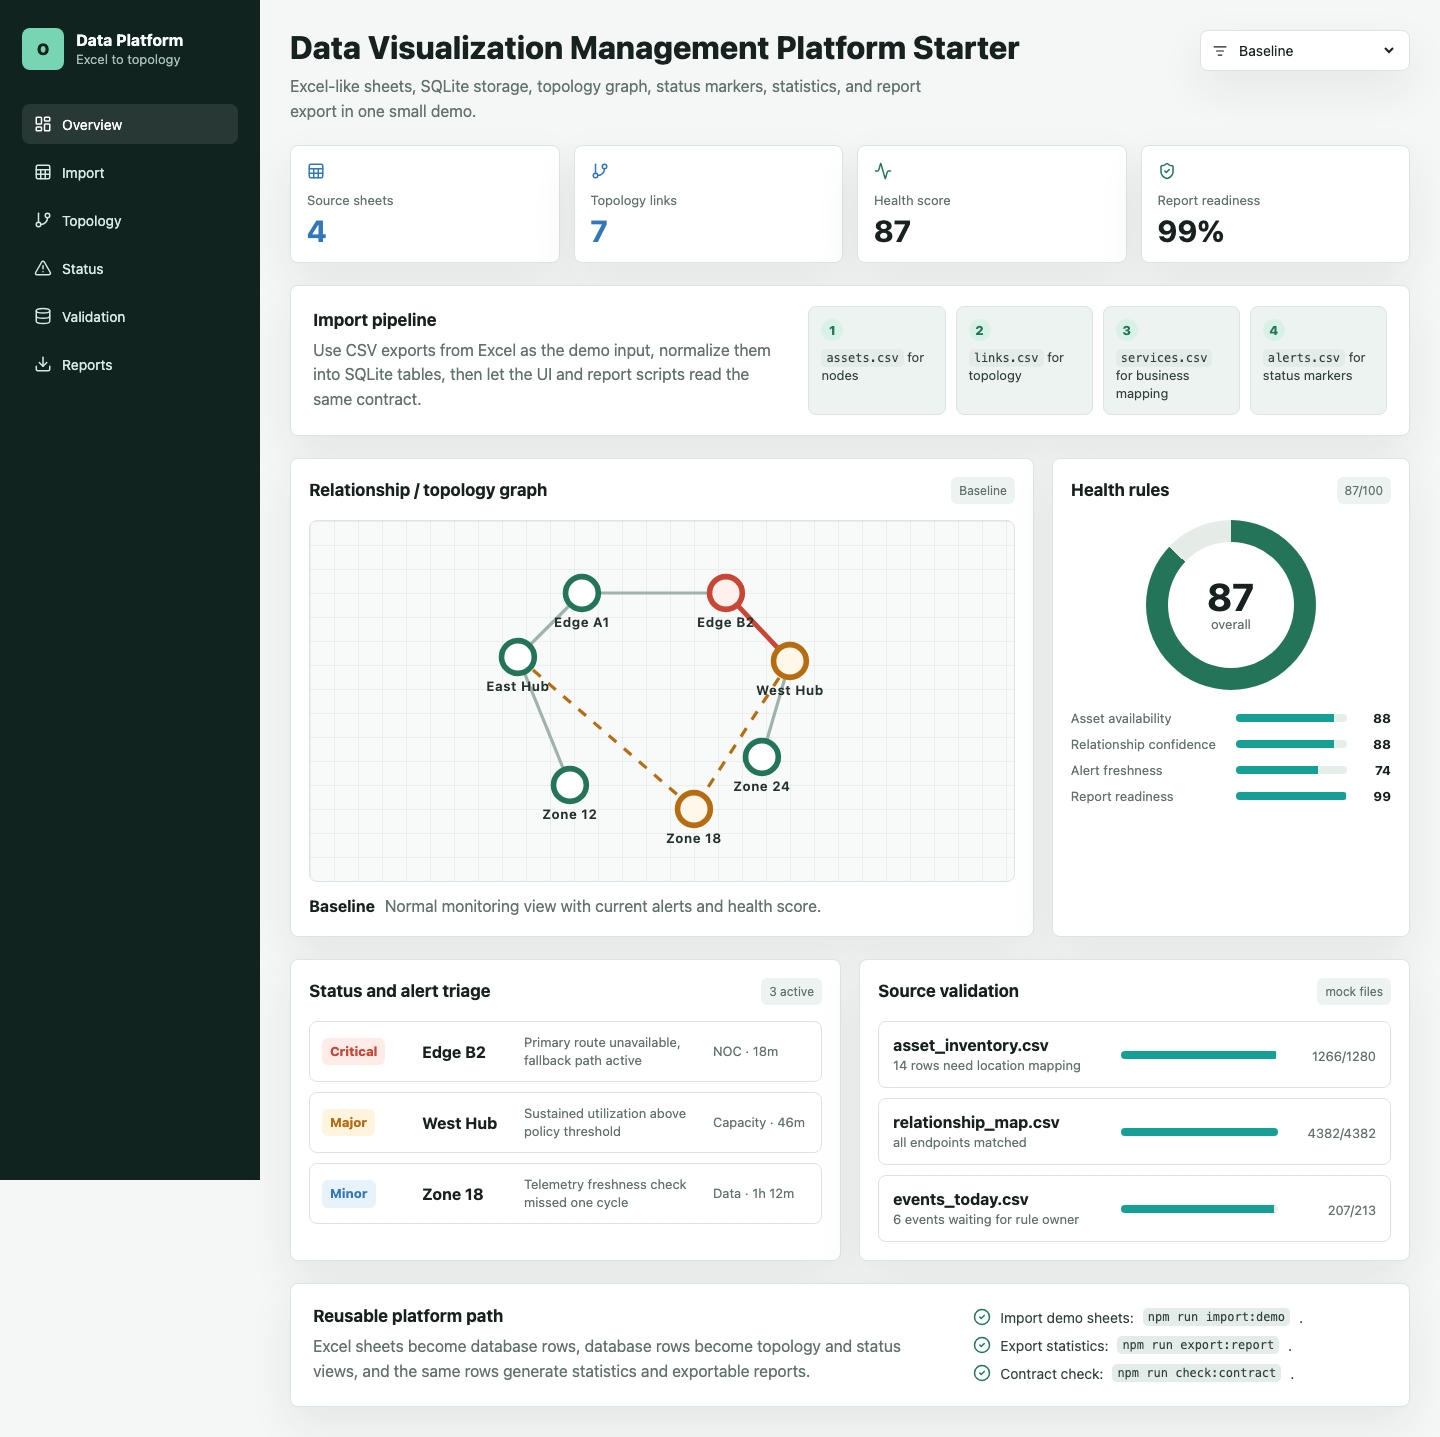
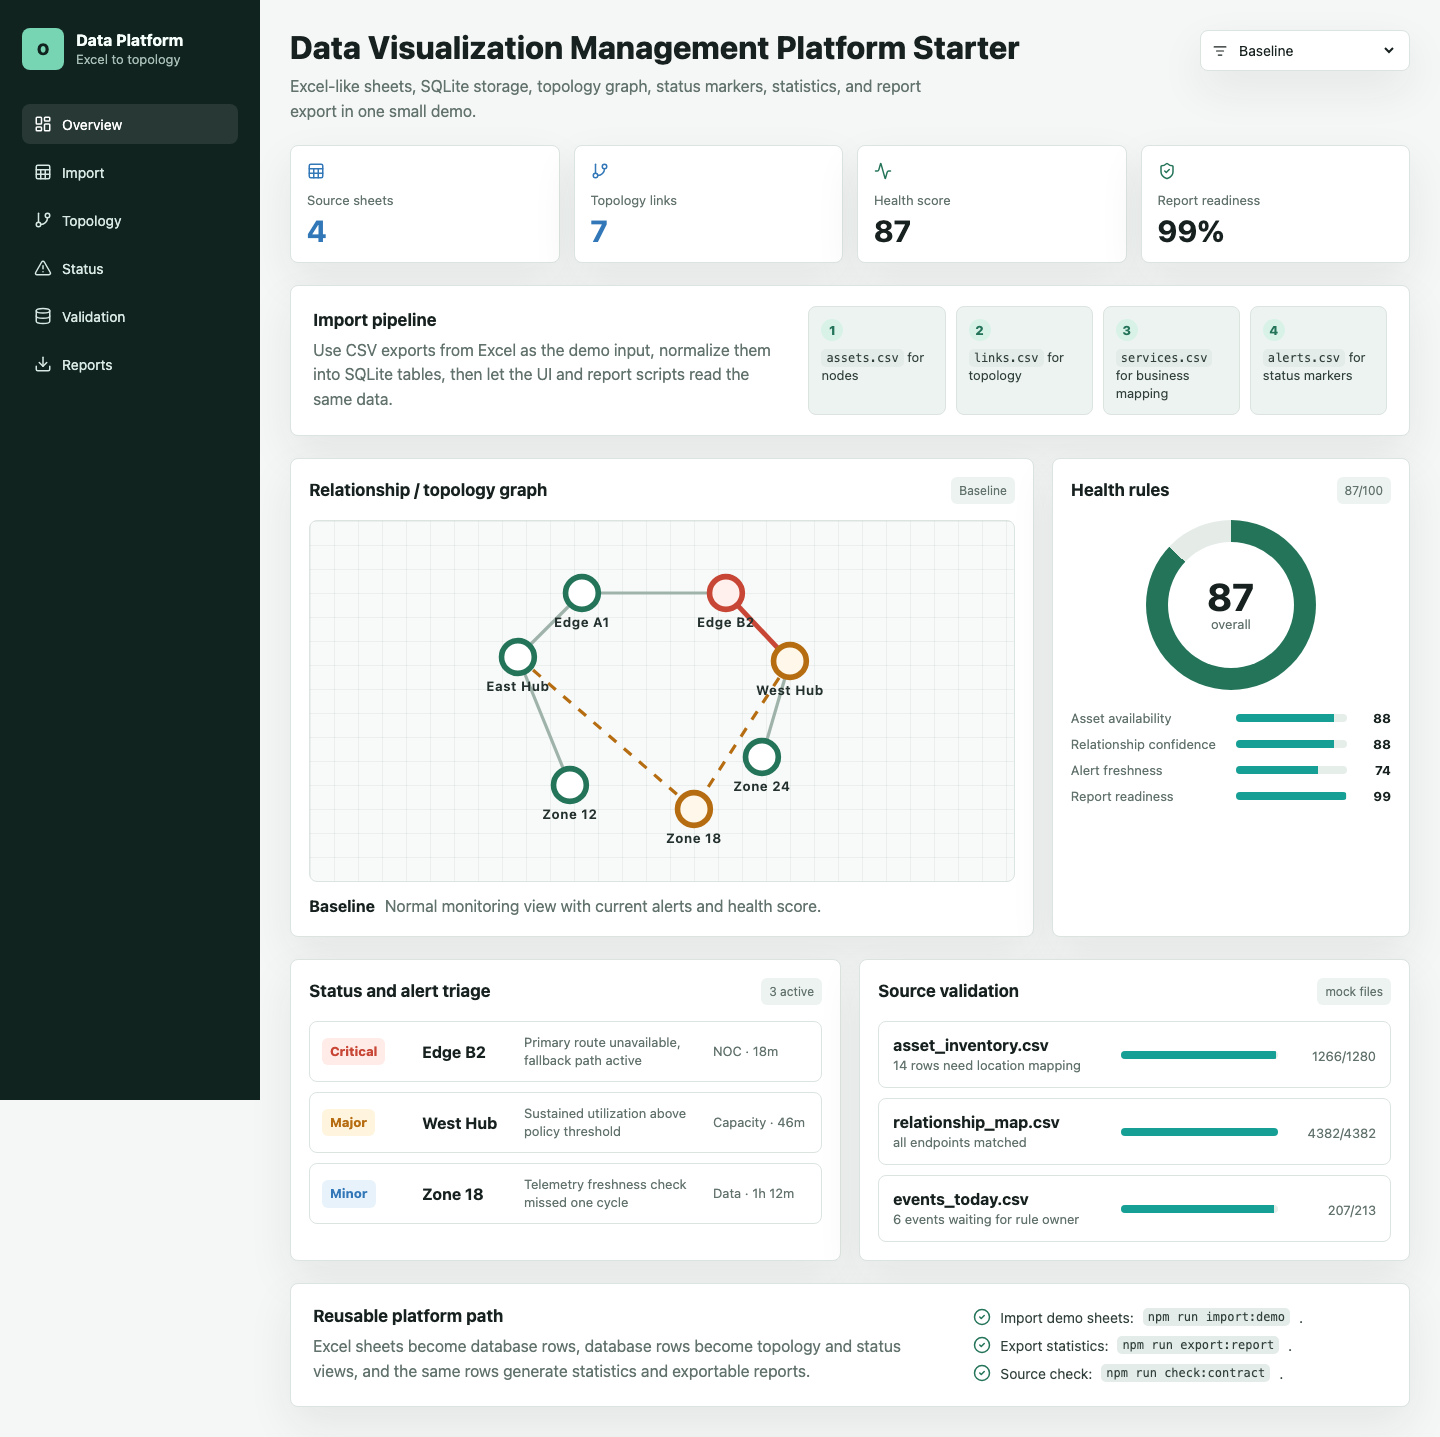
Make data wording more natural

diff --git a/src/main.tsx b/src/main.tsx
@@ -88,7 +88,7 @@ function App() {
         <section id="import" className="import-band">
           <div>
             <h2>Import pipeline</h2>
-            <p>Use CSV exports from Excel as the demo input, normalize them into SQLite tables, then let the UI and report scripts read the same contract.</p>
+            <p>Use CSV exports from Excel as the demo input, normalize them into SQLite tables, then let the UI and report scripts read the same data.</p>
           </div>
           <ol>
             <li><span>1</span><code>assets.csv</code> for nodes</li>
@@ -191,7 +191,7 @@ function App() {
           <ul>
             <li><CheckCircle2 size={18} /> Import demo sheets: <code>npm run import:demo</code>.</li>
             <li><CheckCircle2 size={18} /> Export statistics: <code>npm run export:report</code>.</li>
-            <li><CheckCircle2 size={18} /> Contract check: <code>npm run check:contract</code>.</li>
+            <li><CheckCircle2 size={18} /> Source check: <code>npm run check:contract</code>.</li>
           </ul>
         </section>
       </section>

diff --git a/README.md b/README.md
@@ -34,7 +34,7 @@ npm run import:demo
 npm run export:report
 ```
 
-构建和数据合同检查：
+构建，并检查示例数据有没有断链：
 
 ```bash
 npm run build
@@ -53,13 +53,13 @@ examples/excel-sheets/
 scripts/
   import_demo_data.py   CSV 表入 SQLite
   export_report.py      从 SQLite 导出统计和报表 CSV
-  check-contract.mjs    检查前端 mock 合同是否断链
+  check-contract.mjs    检查示例数据里的节点、关系和告警是否能对上
 
 docs/sql/
   schema.sql            数据库表结构
 
 src/
-  opsPatterns.ts        场景、健康度、报表可信度、合同检查
+  opsPatterns.ts        场景、健康度、报表可信度、数据检查
   main.tsx              可运行的数据可视化界面
 ```
 
@@ -67,7 +67,7 @@ src/
 
 ## 我想分享的几个经验
 
-### 1. Excel 导入前先定数据合同
+### 1. Excel 导入前把表和字段说清楚
 
 这类平台最容易卡在字段口径。页面要画关系图，就必须提前明确：
 
@@ -77,7 +77,7 @@ src/
 - 状态字段来自节点、边、告警，还是计算规则。
 - 报表统计以数据库为准，还是以前端筛选结果为准。
 
-这个 repo 里用四张表表达最小合同：
+这个 repo 里用四张示例表把关系讲清楚：
 
 ```text
 assets.csv   节点

diff --git a/docs/04-reusable-patterns.md b/docs/04-reusable-patterns.md
@@ -2,7 +2,7 @@
 
 这份 demo 真正能拿走的是几条小模式。
 
-## 1. Excel 表先变成数据合同
+## 1. Excel 表先整理成稳定结构
 
 页面需要什么，Excel 里就要能找到稳定来源。
 
@@ -13,13 +13,13 @@
 | `services.csv` | 业务映射、路径追踪、影响分析 |
 | `alerts.csv` | 状态标记、告警列表、健康度规则 |
 
-真实项目里可以继续叫 `.xlsx`，但内部最好早一点转成这样的合同结构。
+真实项目里可以继续叫 `.xlsx`，但程序内部最好早一点整理成这种稳定结构。
 
 ## 2. 节点和边必须能互相校验
 
 拓扑图最怕关系断链：边表里写了一个 source，节点表里找不到它。页面可能还能渲染一部分，但数据可信度已经坏了。
 
-这个 repo 保留了一个小检查：
+这个 repo 保留了一个小检查脚本：
 
 ```bash
 npm run check:contract

diff --git a/docs/02-demo-architecture.md b/docs/02-demo-architecture.md
@@ -14,7 +14,7 @@ Excel sheets -> import script -> SQLite tables -> UI views -> report export
 |---|---|
 | Excel / CSV sheets | 原始输入，保持接近业务方能理解的表格 |
 | SQLite tables | 稳定 ID、关系边、状态和统计口径 |
-| Contract check | 检查节点、关系、状态引用是否断链 |
+| Source check | 检查节点、关系、状态引用是否断链 |
 | UI views | 展示拓扑、状态、统计和数据质量 |
 | Report export | 从数据库导出可回查的统计结果 |
 